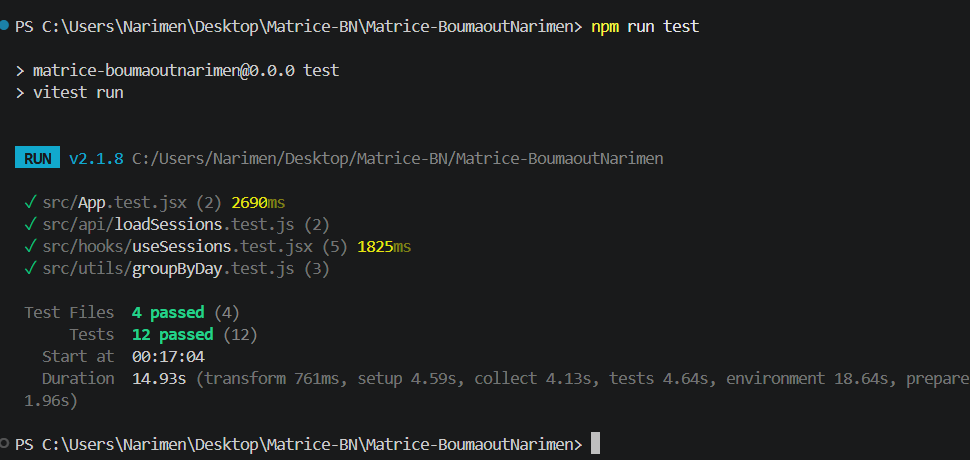
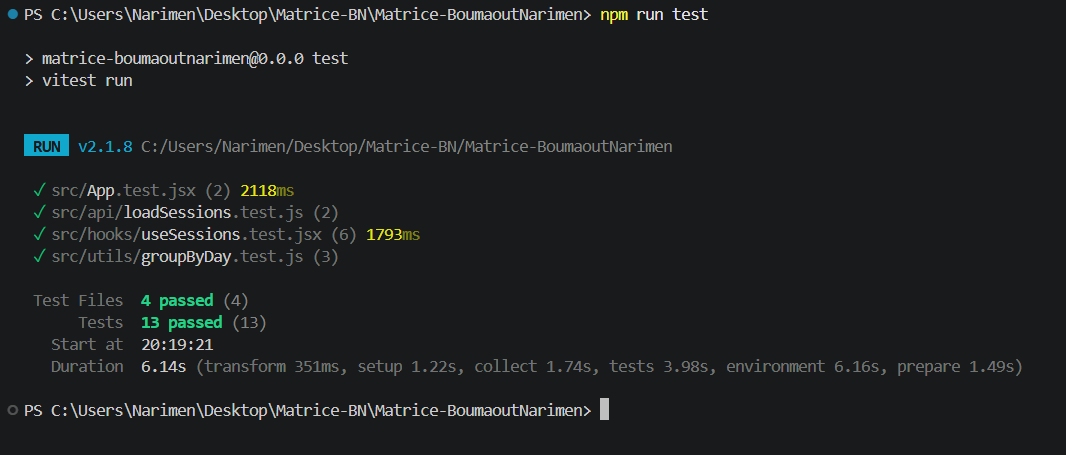
Documentation corrigée

diff --git a/Preuves/F2/F2-PREUVES.md b/Preuves/F2/F2-PREUVES.md
@@ -2,7 +2,8 @@
 
 ## Principe
 
-Pour chaque preuve, je retire volontairement une ligne du code, je lance le test (il échoue : **rouge**), je restaure la ligne avec `git restore`, puis je relance le même test (il passe : **vert**). Les défauts sont donc introduits exprès, pour vérifier que les tests détectent bien la panne.
+
+Chaque preuve montre un test **rouge** (il échoue), puis **vert** (il passe après correction). Pour les preuves 1 et 2, je retire volontairement une ligne du code, je lance le test, je restaure la ligne avec `git restore`, puis je relance le même test : les défauts sont introduits exprès, pour vérifier que les tests détectent bien la panne. Pour la preuve 3, le défaut était réel : j'ai écrit le test, il a échoué sur le code d'origine, puis j'ai corrigé le code.
 
 ## Preuve 1 : réponses dans le désordre
 
@@ -32,9 +33,29 @@ Pour chaque preuve, je retire volontairement une ligne du code, je lance le test
 
 ![Vert promotion](vert-promotion.png)
 
+
+
+## Preuve 3 : une confirmation exige un formateur
+
+- **Test** : `useSessions - scénario 7 : confirmation sans formateur` (fichier `src/hooks/useSessions.test.jsx`)
+- **Défaut** : la règle du sujet « une confirmation exige un formateur » n'était pas appliquée : `updateStatus` acceptait de confirmer « Travail autonome » (sans formateur).
+- **Commande** : `npx vitest run src/hooks/useSessions.test.jsx -t "sans formateur"`
+
+**Rouge** : le test, écrit avant la correction, échoue sur le code d'origine avec `expected 'confirmed' to be 'proposed'` (ligne 127) : la séance sans formateur est passée à « confirmed ».
+
+![Rouge formateur](rouge-formateur.png)
+
+**Vert** : après la correction dans `updateStatus` (refus de la confirmation sans formateur), le test passe.
+
+![Vert formateur](vert-formateur.png)
+
+Cette preuve diffère des deux premières : le défaut n'a pas été introduit volontairement, c'était un vrai défaut de mon application, constaté puis corrigé.
+
+
+
 ## Suite complète
 
-Commande non interactive : `npm run test`, 12 tests réussis dans 4 fichiers.
+Commande non interactive : `npm run test`, 13 tests réussis dans 4 fichiers.
 
 ![Tests complets](tests-complets.png)
 
@@ -51,6 +72,7 @@ Commande non interactive : `npm run test`, 12 tests réussis dans 4 fichiers.
 | Nom accessible du filtre | rendu de l'application | un champ de texte nommé « Recherche » | champ inutilisable avec un lecteur d'écran |
 | Utilisation au clavier | trois Tab, puis saisie de « Authentification » | focus sur la recherche, liste filtrée | filtre inaccessible sans souris |
 | Regroupement par jour | séances de plusieurs jours, matin et après-midi mélangés | jours triés, matin avant après-midi, libellé en français, liste vide gérée | liste dans le désordre ou libellés incorrects |
+| Confirmation sans formateur | `updateStatus("s06", "confirmed")` sur une séance sans formateur, puis `updateStatus("s04", "confirmed")` sur une séance avec formateur | s06 reste « proposed », s04 passe à « confirmed » | séance sans formateur confirmée, contre la règle du sujet |
 
 ## Configuration de test
 
@@ -61,9 +83,9 @@ Commande non interactive : `npm run test`, 12 tests réussis dans 4 fichiers.
 
 ## Limites de la stratégie
 
-- Les défauts sont introduits volontairement : les tests prouvent qu'ils détectent ces pannes, pas qu'ils ont découvert des bugs réels.
+- Les preuves 1 et 2 portent sur des défauts introduits volontairement : elles prouvent que les tests détectent ces pannes, pas qu'ils ont découvert des bugs réels. La preuve 3 porte sur un défaut réel de l'application.
 - Les tests du hook remplacent `loadSessions` par un faux loader : le vrai délai de 400 ms n'est pas testé.
 - Le test des réponses dans le désordre utilise de vrais délais (environ 1,3 s) et peut être sensible à la charge de la machine.
 - Aucun test ne vérifie le rendu visuel (couleurs, responsive) : ces points sont couverts par les captures de F3.
 - Les tests de l'interface (`App.test.jsx`) utilisent le vrai `loadSessions` avec son délai de 400 ms : ils sont plus lents et dépendent de ce délai.
-- Seul le champ de recherche est vérifié pour le nom accessible et le clavier ; les deux menus (groupe, domaine) et la modale sont testés à la main (protocole clavier de F3), pas par des tests automatiques.
+- Seul le champ de recherche est vérifié pour le nom accessible et le clavier ; les deux menus (groupe, domaine) et la modale sont testés à la main (protocole clavier de F3), pas par des tests automatiques. L'option « Confirmée » désactivée dans la modale a aussi été vérifiée à la main.

diff --git a/JUSTIFICATIONS.md b/JUSTIFICATIONS.md
@@ -44,6 +44,15 @@ Je ne garde que l'identifiant de la séance sélectionnée, pas une copie de la 
 
 - `key={session.id}` pour les cartes, `key={day.date}` pour les sections de jour, `key={opt.value}` pour les options des menus. Je n'utilise jamais l'index : les identifiants restent les mêmes quand la liste change (filtre, tri), donc React ne mélange pas les éléments.
 
+### Règle « une confirmation exige un formateur »
+
+Le sujet impose qu'une séance sans formateur (comme « Travail autonome ») ne puisse pas être confirmée. Je l'applique à deux endroits :
+- dans `updateStatus` (`useSessions.js`) : si on demande « confirmed » pour une séance sans `formateurId`, la séance est renvoyée inchangée ;
+- dans la modale (`SessionDetail.jsx`) : l'option « Confirmée » est désactivée pour une séance sans formateur, avec une phrase d'explication reliée au menu par `aria-describedby`.
+
+La règle est dans le hook et pas seulement dans la modale : même si un autre composant appelait `updateStatus`, la règle serait respectée. Elle est testée par le scénario 7 (`Preuves/F2/F2-PREUVES.md`, preuve 3).
+
+
 ## 3. La concurrence (réponses dans le désordre)
 
 **Le problème :** A est lancé à t = 0 et répond à 800 ms, B est lancé à t = 100 ms et répond à 200 ms. B répond donc à t = 300 ms, et A arrive après. Sans protection, A écraserait B alors que l'utilisateur a demandé B en dernier. C'est comme commander un café (long à préparer), puis changer d'avis pour un thé (rapide) : le thé arrive d'abord, puis le café arrive en retard et prend sa place alors qu'on n'en veut plus.
@@ -65,7 +74,7 @@ Je ne garde que l'identifiant de la séance sélectionnée, pas une copie de la 
 
 - Les tests du hook injectent un faux loader : ils sont rapides et prévisibles, mais ne testent pas le vrai délai de 400 ms.
 - Le test de concurrence utilise de vrais délais (environ 1,3 s). J'aurais pu utiliser les faux timers de Vitest, plus rapides, mais ils se combinent mal avec les mises à jour d'état de React et j'ai préféré un test que je comprends.
-- Les preuves rouge puis vert sont obtenues en retirant volontairement une ligne de code, puis en la restaurant avec `git restore`. Elles prouvent que les tests détectent la panne, pas qu'ils ont trouvé un bug apparu par hasard.
+- Les preuves 1 et 2 sont obtenues en retirant volontairement une ligne de code, puis en la restaurant avec `git restore` : elles prouvent que les tests détectent la panne. La preuve 3 (confirmation sans formateur) porte sur un défaut réel de mon application : le test a été écrit avant la correction, a échoué sur le code d'origine, puis est passé après la correction.
 
 ## 6. Problèmes rencontrés
 
@@ -84,8 +93,7 @@ Je ne garde que l'identifiant de la séance sélectionnée, pas une copie de la 
 ## 8. Limites
 
 - **Le statut modifié n'est pas conservé quand on change de filtre.** Un nouveau filtre recharge les séances depuis les données d'origine, donc un statut changé localement revient à sa valeur initiale.
-- **La règle « une confirmation exige un formateur » n'est pas appliquée par l'interface.** On peut passer « Travail autonome » (sans formateur) en « Confirmée » dans la modale. Les données de départ respectent la règle, mais le code ne l'impose pas.
 - **L'état d'erreur n'est pas déclenchable dans le navigateur.** Il est testé (scénario « erreur puis nouvelle tentative »), mais le vrai `loadSessions` ne renvoie jamais d'erreur dans l'application.
 - **Pas d'annulation de requête :** je ne fais qu'ignorer les réponses obsolètes.
-- La modale est testée à la main (protocole clavier), pas par des tests automatiques ; seul le champ de recherche a un test d'accessibilité.
+- La modale est testée à la main (protocole clavier), pas par des tests automatiques ; seul le champ de recherche a un test d'accessibilité. L'option « Confirmée » désactivée et sa phrase d'explication ont été vérifiées à la main ; seule la règle dans `updateStatus` est couverte par un test automatique.
 - Les limites propres aux tests et aux captures sont détaillées dans `F2-PREUVES.md` et `F3-PREUVES.md`.

diff --git a/README.md b/README.md
@@ -13,6 +13,7 @@ Dépôt : https://github.com/NarimenB/Matrice-BoumaoutNarimen
 - Protection contre les réponses obsolètes : si une requête lente répond après une requête plus récente, l'écran reste sur la plus récente.
 - Détail d'une séance dans une modale accessible : le focus est piégé dans la modale, `Echap` la ferme, le focus revient sur la carte.
 - Modification locale du statut d'une séance, cohérente entre la liste et le détail.
+- Règle métier : une séance sans formateur (« Travail autonome ») ne peut pas être confirmée ; l'option « Confirmée » est désactivée dans le détail et la règle est aussi appliquée dans le code.
 - Interface utilisable à 360 px et 1280 px. Le statut se lit par le texte et le symbole (✓ / ○), pas seulement par la couleur.
 
 Les données sont fictives (fournies par le sujet). Il n'y a ni backend, ni base de données, ni authentification.
@@ -58,12 +59,12 @@ Pour les relancer automatiquement à chaque modification :
 npm run test:watch
 ```
 
-La suite contient 12 tests répartis dans 4 fichiers :
+La suite contient 13 tests répartis dans 4 fichiers :
 
 | Fichier | Tests |
 | --- | --- |
 | `src/api/loadSessions.test.js` | le groupe A inclut la Promotion ; le groupe B inclut la Promotion mais pas A |
-| `src/hooks/useSessions.test.jsx` | chargement ; succès ; résultat vide ; erreur puis nouvelle tentative ; réponses dans le désordre |
+| `src/hooks/useSessions.test.jsx` | chargement ; succès ; résultat vide ; erreur puis nouvelle tentative ; réponses dans le désordre ; confirmation sans formateur |
 | `src/App.test.jsx` | nom accessible du champ de recherche ; utilisation du champ de recherche au clavier |
 | `src/utils/groupByDay.test.js` | regroupement par jour trié (matin avant après-midi) ; libellé du jour en français ; liste vide |
 
